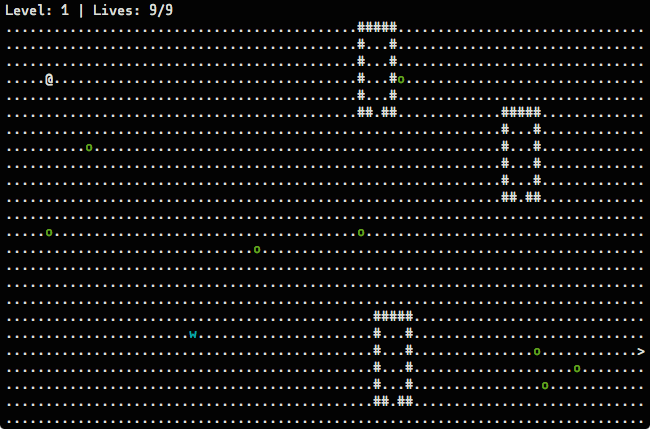
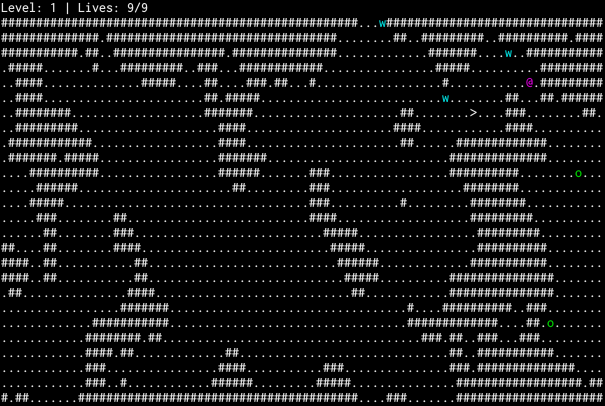
Allow destruction of walls in the cave Also: * Updated README and the Changelog * Organized the code a little bit * Split the code into some more files

Changed region(s): [[0.0, 0.0, 1.0, 1.0]]

diff --git a/src/main.c b/src/main.c
@@ -5,88 +5,11 @@
 #include <math.h>
 #include "config.h"     // special configuration using #defines
 #include "data.h"       // everything related to our special data structures
+#include "map.h"        // generation of the map
 #include "allocation.h" // everything related to allocation, freeing and exiting gracefully
+#include "util.h"       // utility functions
 
 #define debug(M, ...) fprintf(stderr, "DEBUG %s:%d: " M "\n", __FILE__, __LINE__, ##__VA_ARGS__)
-
-int randint(int lower, int upper) {
-	return rand() % upper + lower;
-}
-
-unsigned int count_surrounding_walls(unsigned int x, unsigned int y, struct World *world) {
-	unsigned int count = 0;
-	int nx, ny;
-
-	for(nx = -1; nx <= 1; nx++) {
-		if((int) x + nx < MAP_START_X || x + nx >= MAP_END_X) {
-			count++;
-			continue;
-		}
-
-		for(ny = -1; ny <= 1; ny++) {
-			if((int) y + ny < MAP_START_Y || y + ny >= MAP_END_Y) {
-				count++;
-				continue;
-			}
-
-			if(world->map[x + nx][y + ny] == '#') {
-				count++;
-			}
-		}
-	}
-	return count;
-}
-void generate_map(struct World *world) {
-	// intialize the map by filling it with spaces
-	unsigned int mapx;
-	unsigned int mapy;
-	for(mapx = 0; mapx < world->map_dimensions[0]; mapx++) {
-		for(mapy = 0; mapy < world->map_dimensions[1]; mapy++)
-		{
-			world->map[mapx][mapy] = ' ';
-		}
-	}
-
-	// generate map
-	// map is a array of arrays:
-	// map[map_dimensions[0]][map_dimensions[1]]
-	//
-	// fields are accesed like map[x][y] (which could be '.' or '#' etc.)
-
-	// TODO: Document the generation process clearly
-	// The basic Idea is this one: http://www.roguebasin.com/index.php?title=Cellular_Automata_Method_for_Generating_Random_Cave-Like_Levels
-	// randomly add walls
-	for(mapx = MAP_START_X; mapx < MAP_END_X; mapx++) {
-		for(mapy = MAP_START_Y; mapy < MAP_END_Y; mapy++) {
-			// wall propability = 45%
-			if(randint(0,100) < 45) {
-				world->map[mapx][mapy] = '#';
-			}
-		}
-	}
-
-	// use our cellular automatons to make something reasonable out of it
-	//int cai;
-	for(mapx = MAP_START_X; mapx < MAP_END_X; mapx++) {
-		for(mapy = MAP_START_Y; mapy < MAP_END_Y; mapy++) {
-			unsigned int surrounding_walls = count_surrounding_walls(mapx, mapy, world);
-			if(surrounding_walls >= 5) {
-				world->map[mapx][mapy] = '#';
-			} else {
-				world->map[mapx][mapy] = '.';
-			}
-		}
-	}
-	// fill the rest with ground ('.')
-	for(mapx = MAP_START_X; mapx < MAP_END_X; mapx++) {
-		for(mapy = MAP_START_Y; mapy < MAP_END_Y; mapy++) {
-			if(world->map[mapx][mapy] != '#') {
-				world->map[mapx][mapy] = '.';
-			}
-		}
-
-	}
-}
 
 void draw(struct World *world) {
 	// clear the screen
@@ -141,9 +64,10 @@ void draw(struct World *world) {
 }
 
 int test_position(int x, int y, struct World *world) {
-	// is the position in the terminal? Is there no '#'? Is there no player (needed for the better fighting mechanism)
+	// is the position in the terminal? Is there no Wall? Is there no player (needed for the better fighting mechanism)
 	if(x >= MAP_START_X && x < (int) MAP_END_X && y >= MAP_START_Y && y < (int) MAP_END_Y &&
-		world->map[x][y] != '#' && (world->player.x != x || world->player.y != y)) {
+		world->map[x][y] != WALL && world->map[x][y] != PARTLY_DESTRUCTED_WALL &&
+		(world->player.x != x || world->player.y != y)) {
 		return 1;
 	} else {
 		return 0;
@@ -173,7 +97,20 @@ void fight(int monsteri, struct World *world) {
 	}
 }
 
-void handle_move(int new_x, int new_y, struct World *world) {
+void destruct_wall(unsigned int x, unsigned int y, struct World *world) {
+	if(abs(world->player.x - x) <= 1 && abs(world->player.y - y) <= 1) {
+		switch(world->map[x][y]) {
+			case WALL:
+				world->map[x][y] = PARTLY_DESTRUCTED_WALL;
+				break;
+			case PARTLY_DESTRUCTED_WALL:
+				world->map[x][y] = GROUND;
+				break;
+		}
+	}
+}
+
+void handle_move(unsigned int new_x, unsigned int new_y, struct World *world) {
 	int monster_there = test_for_monsters(new_x, new_y, world);
 
 	// position is in the terminal and there's no monster -> move there
@@ -184,8 +121,14 @@ void handle_move(int new_x, int new_y, struct World *world) {
 	// there's a monster -> fight
 	} else if(test_position(new_x, new_y, world) == 1 && monster_there != - 1) {
 		fight(monster_there, world);
+	} else if((int) new_x >= MAP_START_X && new_x < MAP_END_X &&
+				(int) new_y >= MAP_START_Y && new_y < MAP_END_Y &&
+				(world->map[new_x][new_y] == WALL ||
+				world->map[new_x][new_y] == PARTLY_DESTRUCTED_WALL)) {
+		destruct_wall(new_x, new_y, world);
 	}
 }
+
 
 void move(uint16_t key, uint32_t ch, struct World *world) {
 	int new_x = world->player.x;
@@ -273,7 +216,7 @@ int main(void) {
 	// intialize the player struct
 	world->player.lives = PLAYER_LIVES;
 	world->player.c     = '@';
-	world->player.color = TB_WHITE;
+	world->player.color = TB_MAGENTA;
 
 	// level
 	world->level        = 1;
@@ -323,8 +266,10 @@ int main(void) {
 
 
 		// place the player
-		world->player.x = randint(MAP_START_X, MAP_END_X);
-		world->player.y = randint(MAP_START_Y, MAP_END_Y);
+		do {
+			world->player.x = randint(MAP_START_X, MAP_END_X);
+			world->player.y = randint(MAP_START_Y, MAP_END_Y);
+		}while(world->map[world->player.x][world->player.y] == WALL);
 
 		// pick a random location for the exit
 		// that is accesible to the player

diff --git a/src/map.c b/src/map.c
@@ -1,0 +1,78 @@
+#include "util.h"
+#include "data.h"
+#include "config.h"
+
+unsigned int count_surrounding_walls(unsigned int x, unsigned int y, struct World *world) {
+	unsigned int count = 0;
+	int nx, ny;
+
+	for(nx = -1; nx <= 1; nx++) {
+		if((int) x + nx < MAP_START_X || x + nx >= MAP_END_X) {
+			count++;
+			continue;
+		}
+
+		for(ny = -1; ny <= 1; ny++) {
+			if((int) y + ny < MAP_START_Y || y + ny >= MAP_END_Y) {
+				count++;
+				continue;
+			}
+
+			if(world->map[x + nx][y + ny] == '#') {
+				count++;
+			}
+		}
+	}
+	return count;
+}
+void generate_map(struct World *world) {
+	// intialize the map by filling it with spaces
+	unsigned int mapx;
+	unsigned int mapy;
+	for(mapx = 0; mapx < world->map_dimensions[0]; mapx++) {
+		for(mapy = 0; mapy < world->map_dimensions[1]; mapy++)
+		{
+			world->map[mapx][mapy] = ' ';
+		}
+	}
+
+	// generate map
+	// map is a array of arrays:
+	// map[map_dimensions[0]][map_dimensions[1]]
+	//
+	// fields are accesed like map[x][y] (which could be '.' or '#' etc.)
+
+	// TODO: Document the generation process clearly
+	// The basic Idea is this one: http://www.roguebasin.com/index.php?title=Cellular_Automata_Method_for_Generating_Random_Cave-Like_Levels
+	// randomly add walls
+	for(mapx = MAP_START_X; mapx < MAP_END_X; mapx++) {
+		for(mapy = MAP_START_Y; mapy < MAP_END_Y; mapy++) {
+			// wall propability = 45%
+			if(randint(0,100) < 45) {
+				world->map[mapx][mapy] = WALL;
+			}
+		}
+	}
+
+	// use our cellular automatons to make something reasonable out of it
+	//int cai;
+	for(mapx = MAP_START_X; mapx < MAP_END_X; mapx++) {
+		for(mapy = MAP_START_Y; mapy < MAP_END_Y; mapy++) {
+			unsigned int surrounding_walls = count_surrounding_walls(mapx, mapy, world);
+			if(surrounding_walls >= 5) {
+				world->map[mapx][mapy] = WALL;
+			} else {
+				world->map[mapx][mapy] = GROUND;
+			}
+		}
+	}
+	// fill the rest with ground ('.')
+	for(mapx = MAP_START_X; mapx < MAP_END_X; mapx++) {
+		for(mapy = MAP_START_Y; mapy < MAP_END_Y; mapy++) {
+			if(world->map[mapx][mapy] != WALL) {
+				world->map[mapx][mapy] = GROUND;
+			}
+		}
+
+	}
+}

diff --git a/src/config.h b/src/config.h
@@ -6,3 +6,7 @@
 #define MAP_END_X world->map_dimensions[0]
 #define MAP_END_Y world->map_dimensions[1]
 
+// APPEARANCE
+#define GROUND '.'
+#define WALL   '#'
+#define PARTLY_DESTRUCTED_WALL '%'

diff --git a/src/map.h b/src/map.h
@@ -1,0 +1,3 @@
+unsigned int count_surrounding_walls(unsigned int, unsigned int, struct World *);
+
+void generate_map(struct World *);

diff --git a/src/util.c b/src/util.c
@@ -1,0 +1,4 @@
+#include <stdlib.h>
+int randint(int lower, int upper) {
+	return rand() % upper + lower;
+}

diff --git a/src/util.h b/src/util.h
@@ -1,0 +1,1 @@
+int randint(int, int);

diff --git a/README.md b/README.md
@@ -33,23 +33,25 @@ Currently there are two types:
 * cyan `w`: A warg – a wolf-like creature with one live
 * green `o`: A orc – he's two lives
 
-## TODO
-* count attacking as separate step.
-* implement an saving routine
-* think about a real concept and adjust the map generation
-* generate monsters and houses (or whatever) based on window size
-* implement Field of Vision (FOV)
-* implement Inventory
-* ...
-
 ## Changelog
 Newest Change always on top!
 
+* allow our hero to destruct walls that are in his way
+* Generate a nice looking cave level
 * The level gets regenerated when the window gets resized
 * fixed several memory leaks and other bugs
 * proper allocation error handling
 * major refactoring, everything you now need to know is inside struct World
 * dropped the broken saving stuff
+
+## TODO
+* count attacking as separate step.
+* implement an saving routine
+* ~~think about a real concept and adjust the map generation~~
+* generate monsters and houses (or whatever) based on window size
+* implement Field of Vision (FOV)
+* implement Inventory
+* ...
 
 ## Thanks to
 
